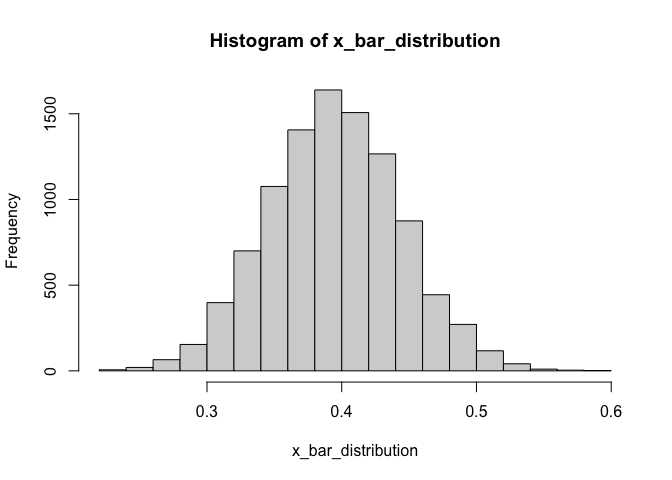
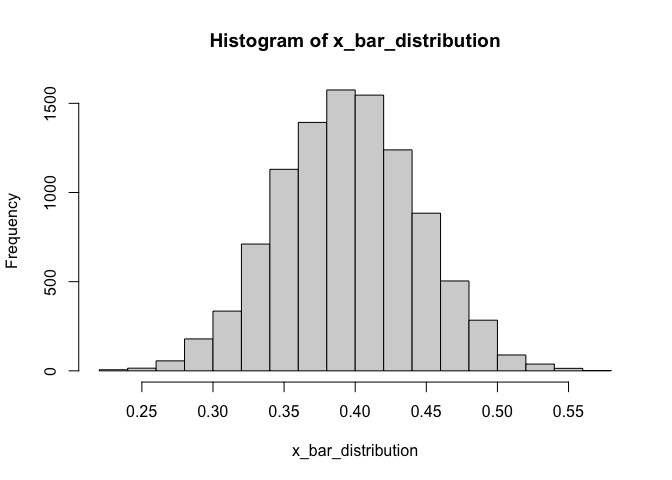
Updated

diff --git a/README.md b/README.md
@@ -1,12 +1,17 @@
-Portfolio: Data Analysis in R
+Portfolio: Data Analysis/Science in R
 ================
 
 This is a compiled showcase of data analysis work I have written in R
 over the years. I love doing with with `tidyverse` and `ggplot2`, and
 rely heavy on its environment.
 
-Here are some example analyses and my compilation of frequent data
-analysis problems plus their solutions.
+Here are some example analyses 1), my compilation of frequent data
+analysis problems plus their solutions 2) and some data
+science/statistics showcases 3).
+
+I have also written and compiled a `bookdown` online book for R and Data
+Analysis/Science for personal use: [Link to
+Book](https://boring-bohr-870977.netlify.app/).
 
 # 1. Example Data Analysis
 
@@ -2303,11 +2308,11 @@ y
 
     ## [1] 12 13 14 15 12
 
-# Data Science / Statistics
+# 3. Data Science / Statistics
 
 ## Central Limit Theorem (Proof)
 
-Let’s create a sampling model and calculate a random statistic for the
+® Let’s create a sampling model and calculate a random statistic for the
 proportion p.
 
 ``` r
@@ -2319,7 +2324,7 @@ x_bar= mean(x)
 x_bar
 ```
 
-    ## [1] 0.38
+    ## [1] 0.37
 
 Now let’s create a Monte Carlo simulation in which we calculate the
 sample statistic p 10,000 times.
@@ -2333,7 +2338,7 @@ x_bar_distribution = replicate(B, {
 head(x_bar_distribution)
 ```
 
-    ## [1] 0.38 0.36 0.38 0.38 0.35 0.49
+    ## [1] 0.44 0.38 0.44 0.44 0.36 0.40
 
 The Central Limit Theorem tells us that when the number of draws, also
 called the *sample size*, is large, the probability distribution of the
@@ -2378,7 +2383,7 @@ falling outside of 3 standard deviations from the mean?
 mean(x_bar_distribution < p - 3 * SE) + mean(x_bar_distribution > p + 3 * SE)
 ```
 
-    ## [1] 0.0026
+    ## [1] 0.0025
 
 ``` r
 pnorm(-3) + 1 - pnorm(3)
@@ -2472,8 +2477,8 @@ The proof from our 10,000 confidence intervals above that did in fact
 capture the true population proportion *p* (0.45) in approximately 95%
 of the time (0.943) tells us that we can create confidence intervals
 from a single sample “with confidence”. In other words, we can in fact
-be sure that a 95% confidence interval constructed from our sample *x̂*
-does include *p* in 95% of the time.
+be sure that a 95% confidence interval constructed from our sample
+$\\\\hat{x}$ does include *p* in 95% of the time.
 
 Here is a single sample from which we will create a 95% confidence
 interval to showcase a more real-life example.
@@ -2579,8 +2584,8 @@ mu
 
     ## [1] 3400.873
 
-Result: The 95% confidence interval for the true population mean *μ* is
-3212.27 to 3816.358 (sample mean is 3514.314).
+Result: The 95% confidence interval for the true population mean
+$\\\\mu$ is 3212.27 to 3816.358 (sample mean is 3514.314).
 
 ``` r
 t.test(x, conf.level = 0.95)$conf.int
